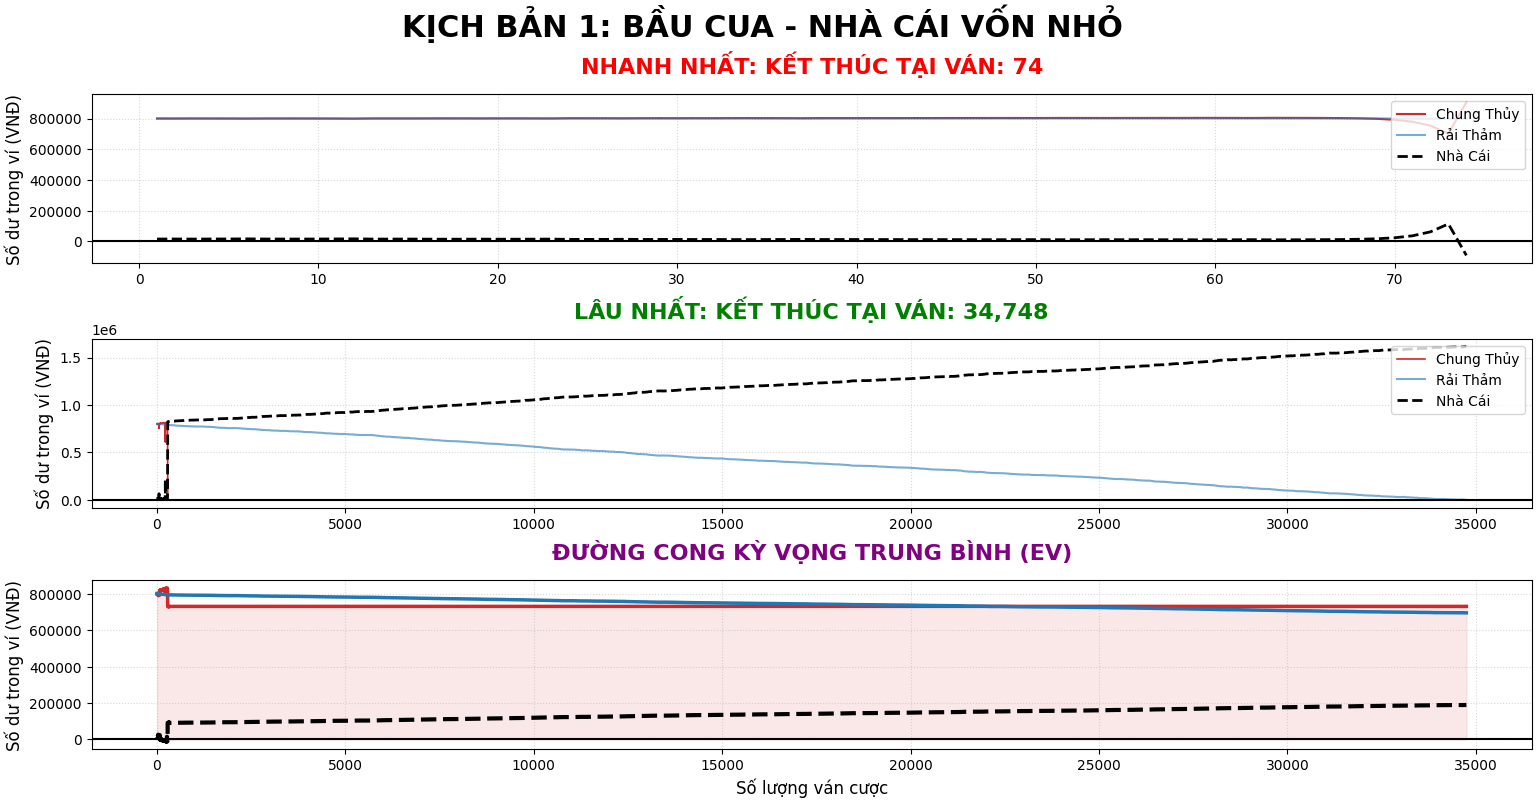
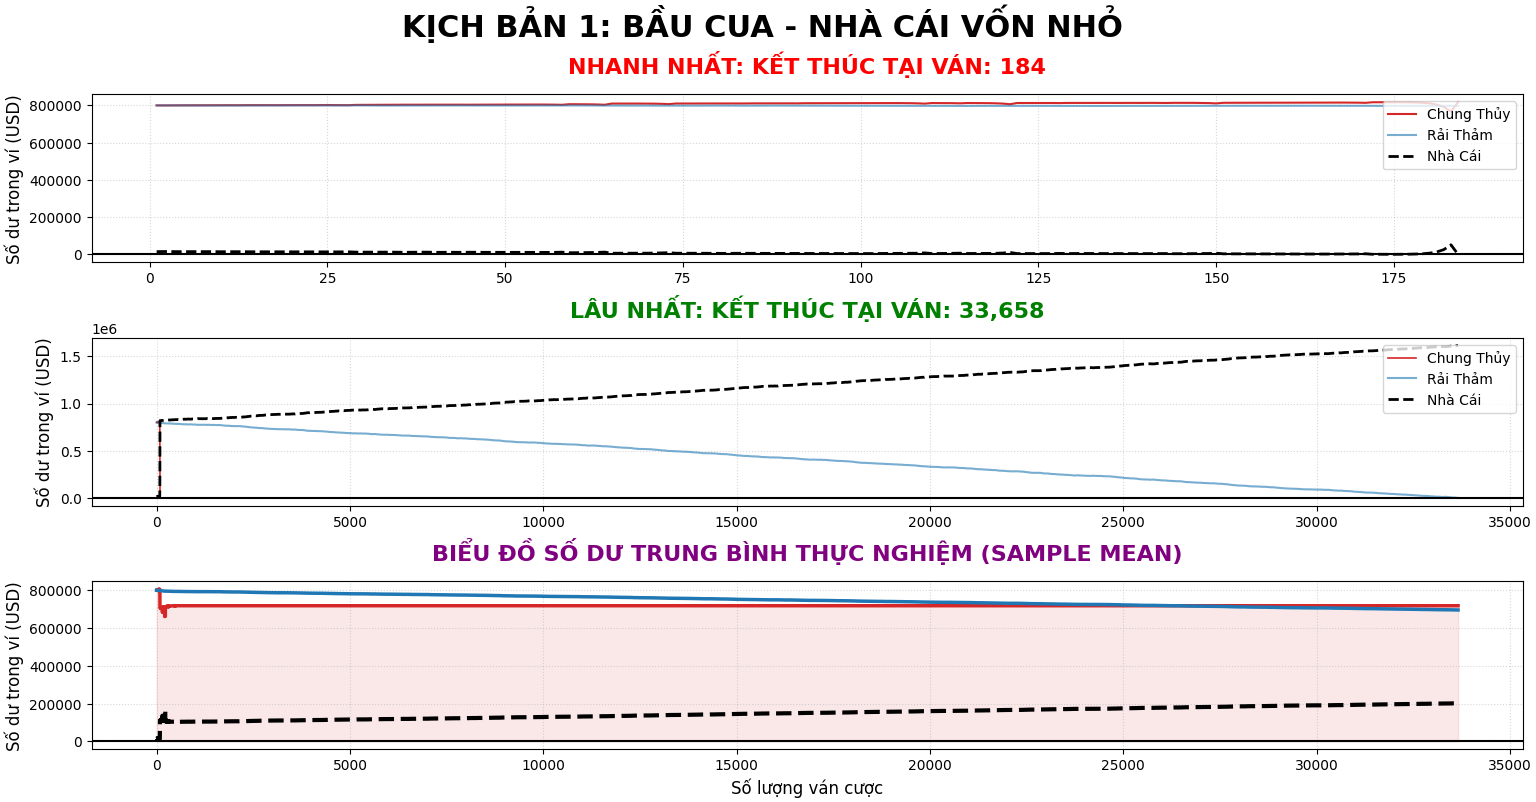
fix py

diff --git a/Casino_MonteCarlo_Sim/scripts/bao_cao_nhacai_lon.py b/Casino_MonteCarlo_Sim/scripts/bao_cao_nhacai_lon.py
@@ -73,12 +73,12 @@ ax3.plot(van_range, mean_chungthuy, color='#d62728', linewidth=2.5, label='Kỳ 
 ax3.plot(van_range, mean_raitham, color='#1f77b4', linewidth=2.5, label='Kỳ vọng Rải Thảm')
 ax3.plot(van_range, mean_nhacai, color='black', linewidth=3, label='Kỳ Vọng Nhà Cái', linestyle='--')
 ax3.fill_between(van_range, mean_chungthuy, color='#d62728', alpha=0.1)
-ax3.set_title("ĐƯỜNG CONG KỲ VỌNG TRUNG BÌNH (EV)", fontsize=16, fontweight='bold', color='purple', pad=15)
+ax3.set_title("BIỂU ĐỒ SỐ DƯ TRUNG BÌNH THỰC NGHIỆM (SAMPLE MEAN)", fontsize=16, fontweight='bold', color='purple', pad=15)
 ax3.set_xlabel("Số lượng ván cược", fontsize=12)
 
 for ax in [ax1, ax2, ax3]:
     ax.axhline(0, color='black', linestyle='-', linewidth=1.5) 
-    ax.set_ylabel("Số dư trong ví (VNĐ)", fontsize=12)
+    ax.set_ylabel("Số dư trong ví (USD)", fontsize=12)
     ax.grid(True, linestyle=':', alpha=0.5)
 
 fig.suptitle('KỊCH BẢN 2: BẦU CUA - NHÀ CÁI VỐN LỚN', fontsize=22, fontweight='bold')

diff --git a/Casino_MonteCarlo_Sim/scripts/bao_cao_nhacai_nho.py b/Casino_MonteCarlo_Sim/scripts/bao_cao_nhacai_nho.py
@@ -77,12 +77,12 @@ ax3.plot(van_range, mean_chungthuy, color='#d62728', linewidth=2.5, label='Kỳ 
 ax3.plot(van_range, mean_raitham, color='#1f77b4', linewidth=2.5, label='Kỳ vọng Rải Thảm')
 ax3.plot(van_range, mean_nhacai, color='black', linewidth=3, label='Kỳ Vọng Nhà Cái', linestyle='--')
 ax3.fill_between(van_range, mean_chungthuy, color='#d62728', alpha=0.1)
-ax3.set_title("ĐƯỜNG CONG KỲ VỌNG TRUNG BÌNH (EV)", fontsize=16, fontweight='bold', color='purple', pad=15)
+ax3.set_title("BIỂU ĐỒ SỐ DƯ TRUNG BÌNH THỰC NGHIỆM (SAMPLE MEAN)", fontsize=16, fontweight='bold', color='purple', pad=15)
 ax3.set_xlabel("Số lượng ván cược", fontsize=12)
 
 for ax in [ax1, ax2, ax3]:
     ax.axhline(0, color='black', linestyle='-', linewidth=1.5) 
-    ax.set_ylabel("Số dư trong ví (VNĐ)", fontsize=12)
+    ax.set_ylabel("Số dư trong ví (USD)", fontsize=12)
     ax.grid(True, linestyle=':', alpha=0.5)
 
 fig.suptitle('KỊCH BẢN 1: BẦU CUA - NHÀ CÁI VỐN NHỎ ', fontsize=22, fontweight='bold')

diff --git a/README.md b/README.md
@@ -88,4 +88,4 @@ pip install pandas matplotlib numpy
 >```
 > **Disclaimer:** This project is strictly for educational purposes and probability research. It does not encourage or promote gambling.
 
-**Author:** [GROUP 4]
+**Author:** [GROUP 6]